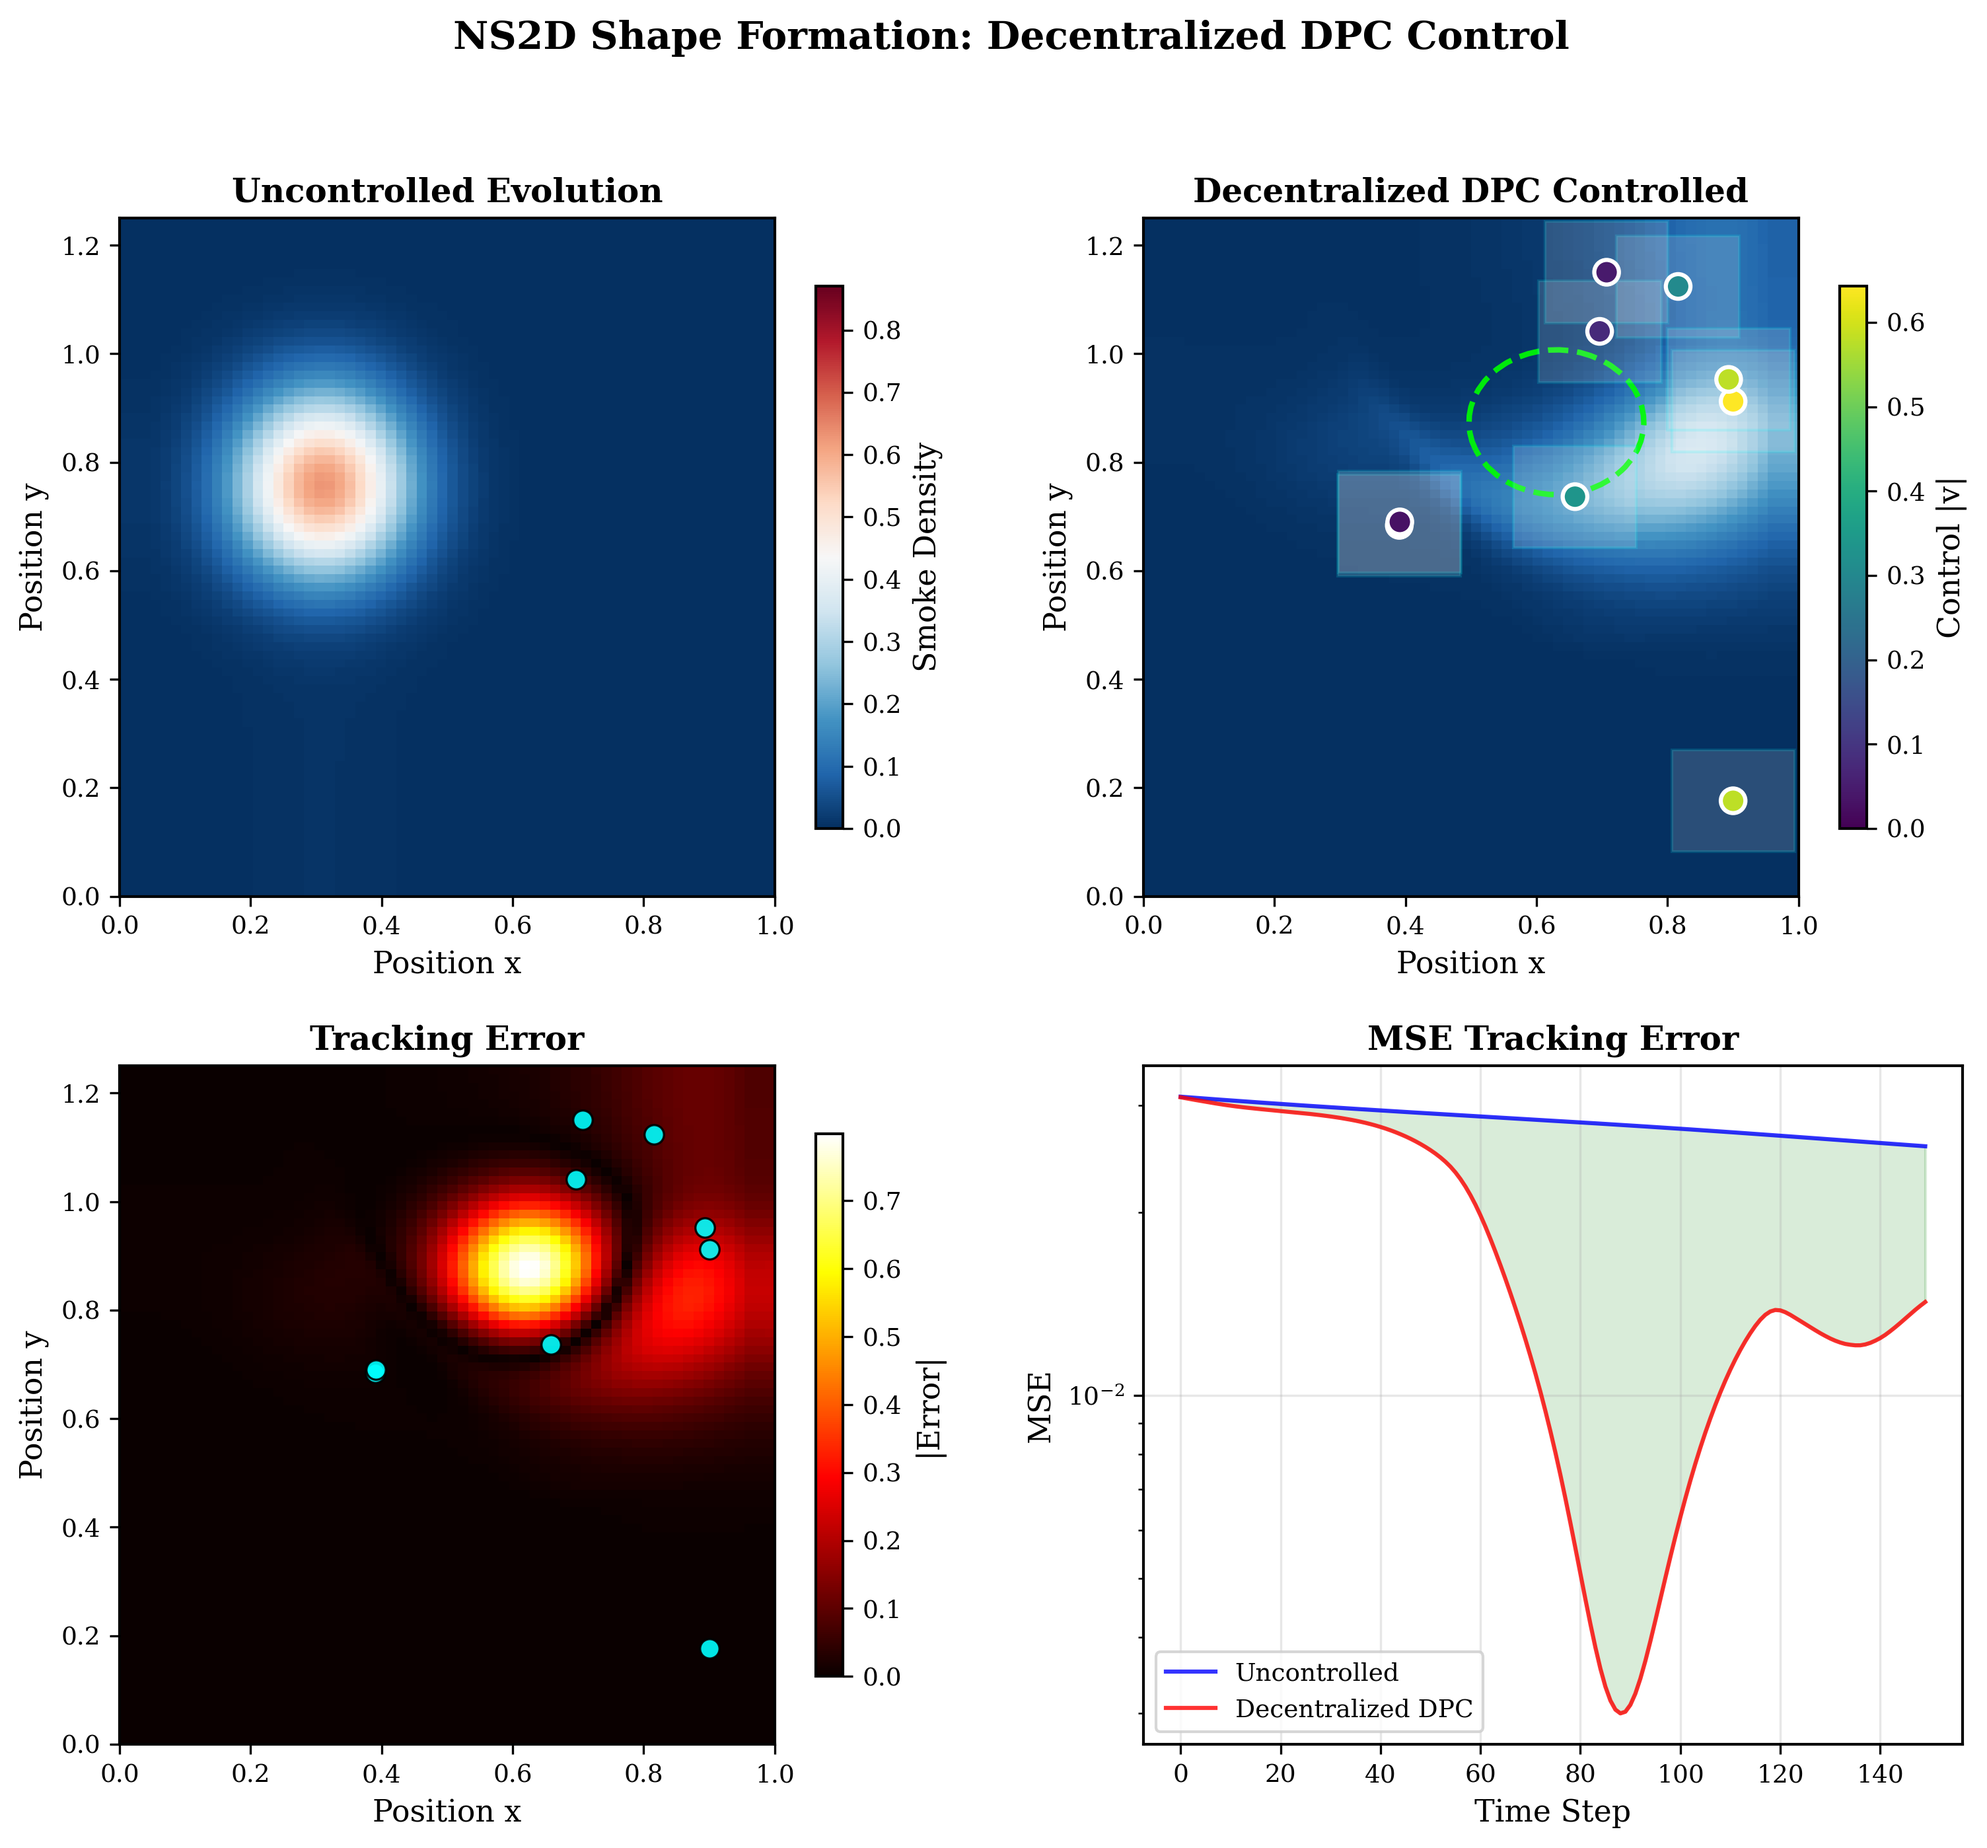
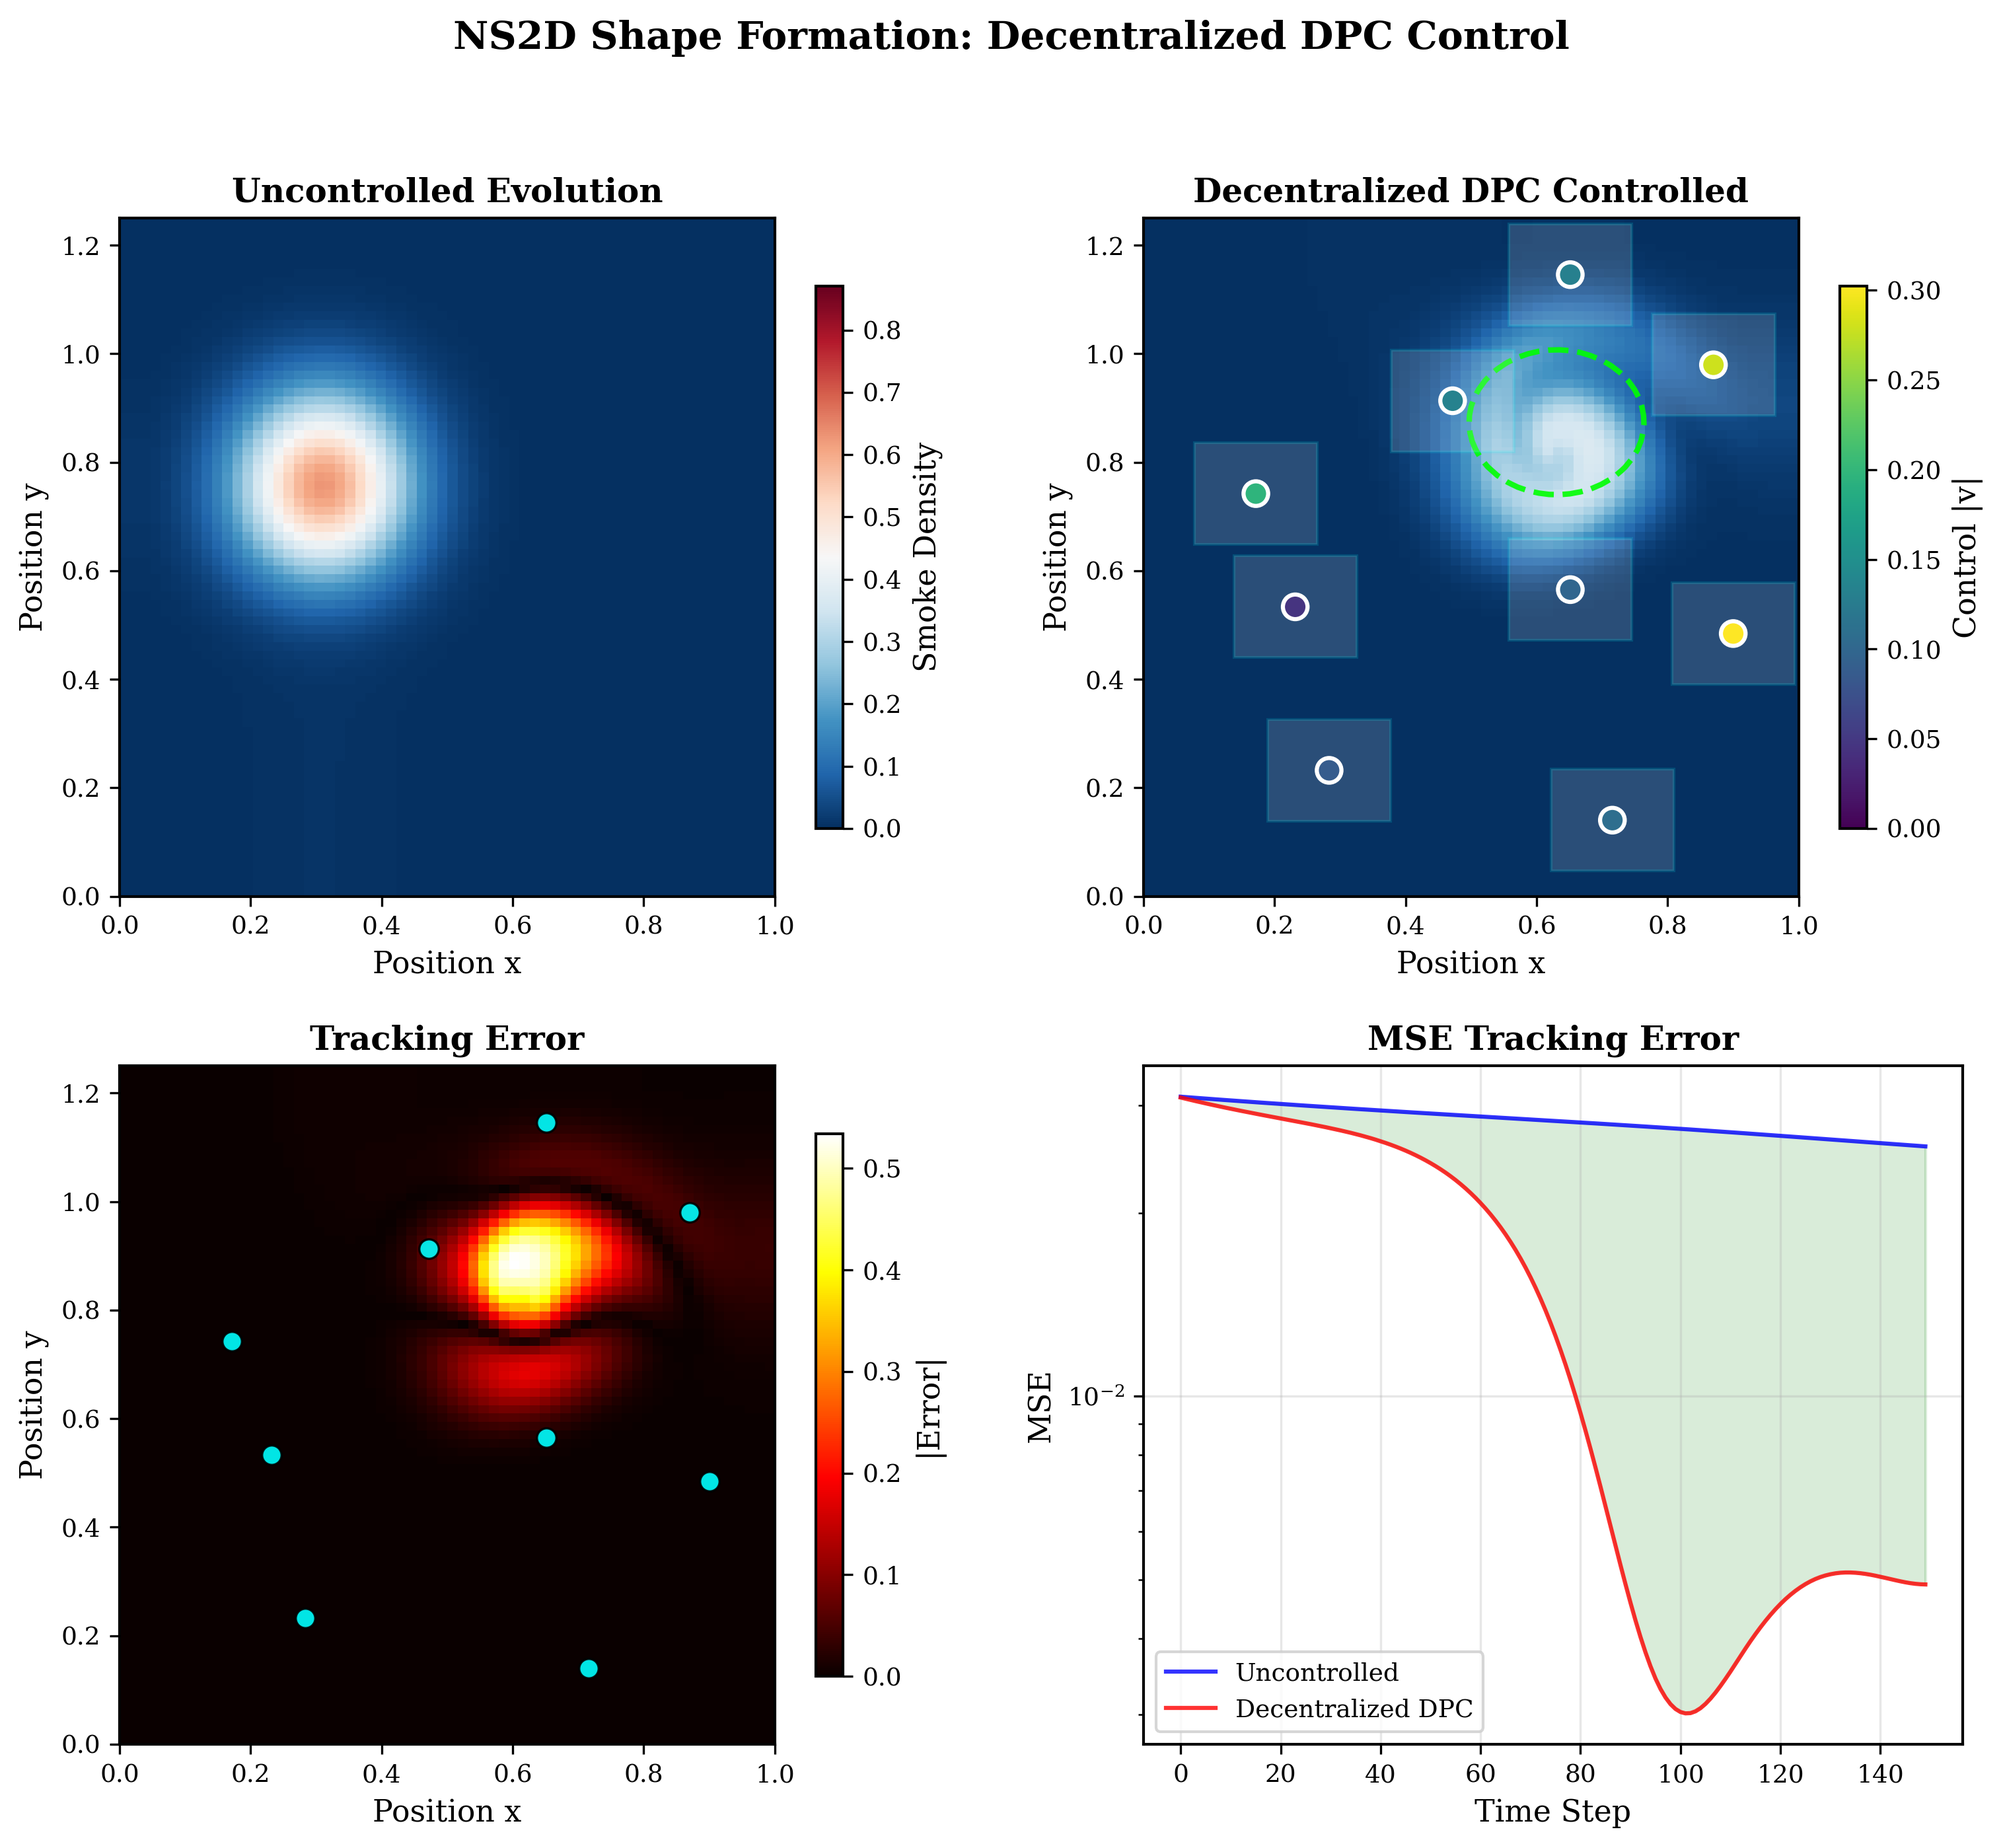
ns2d: Wasserstein loss, exponential collision, tuning in progress

diff --git a/examples/ns2d/decentralized/train.py b/examples/ns2d/decentralized/train.py
@@ -64,16 +64,16 @@ PATCH_SIZE = 12
 # W_MASS = 80.0         #50# NEW: Preserve smoke mass
 # R_SAFE = 0.15         # Safe radius for collision
 
-W_TRANSPORT = 1.0   #20# PRIMARY: push smoke centroid → target centroid
-W_HOLD = 10.0         #10# TERMINAL: smoke must stay at target (time-weighted)
-W_FIND = 1.0         # EXPLORATION: agents approach smoke
+W_TRANSPORT = 0.0   #20# PRIMARY: push smoke centroid → target centroid
+W_HOLD = 10.0 #0.3        #10# TERMINAL: smoke must stay at target (time-weighted)
+W_FIND = 0.0         # EXPLORATION: agents approach smoke
 W_SURROUND = 0.0     #15# Agents form ring around target
 W_BRAKE = 0.0        # Slow down when at target
-W_COLL = 100.0        # Avoid other agents
+W_COLL = 70.0        # Avoid other agents
 W_BOUND = 10.0        # Stay in domain
 W_SMOOTH = 0.1        # Velocity smoothness
 W_EFFORT = 0.001      # Control energy
-W_MASS = 20.0         #50# NEW: Preserve smoke mass
+W_MASS = 30.0         #50# NEW: Preserve smoke mass
 R_SAFE = 0.15         # Safe radius for collision
 
 

diff --git a/examples/ns2d/decentralized/dynamics.py b/examples/ns2d/decentralized/dynamics.py
@@ -405,12 +405,13 @@ def unroll_with_full_loss(
     
     # Time weights: [0.5, 0.6, ..., 1.5, 2.0, 2.5] - increasing over time
     # time_weights = 0.5 + 2.0 * jnp.linspace(0, 1, t_steps)  # Linear increase
-    time_weights = 1.0
+    # time_weights = 1.0
+    time_weights = jnp.ones(t_steps)
     l_hold = jnp.sum(hold_losses * time_weights) / jnp.sum(time_weights)
     
     # Also add strong terminal penalty (Wasserstein)
     l_hold_terminal = compute_wasserstein_loss(smoke_final, rho_target)
-    l_hold = l_hold + 10.0 * l_hold_terminal  # Extra emphasis on final state
+    l_hold = l_hold + 3.0 * l_hold_terminal  # Extra emphasis on final state
     
     # =========================================================================
     # 3. FIND LOSS: Agents should approach smoke to push it
